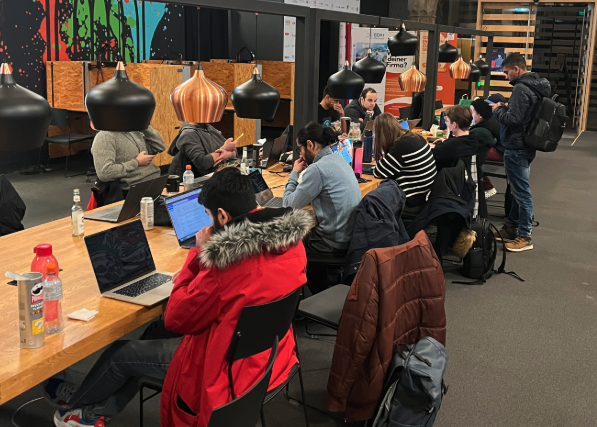
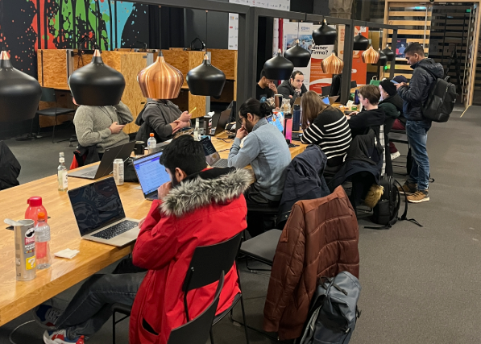
add links to timeline and resize img

Changed region(s): [[0.1871, 0.0, 0.2807, 0.1453], [0.5613, 0.3488, 0.5925, 0.3779]]

diff --git a/src/components/Timeline.tsx b/src/components/Timeline.tsx
@@ -9,6 +9,7 @@ interface TimelineProps {
     title: string;
     description: string;
     image: string;
+    url?: string;
   }[];
 }
 
@@ -61,28 +62,64 @@ export default function Timeline({ milestones }: TimelineProps) {
               <div className={`w-full sm:w-5/12 ml-7 mr-6 sm:ml-0 sm:mr-0 ${
                 index % 2 === 0 ? 'sm:mr-auto sm:pr-8' : 'sm:ml-auto sm:pl-8'
               }`}>
-                <div className="group bg-white/5 backdrop-blur-lg rounded-2xl overflow-hidden border border-white/10 hover:border-purple-500/30 transition-all duration-300 hover:scale-[1.025] hover:shadow-2xl hover:shadow-purple-500/20 mt-8 sm:mt-0">
-                  {/* Image */}
-                  <div className="relative h-48 sm:h-56 overflow-hidden">
-                    <Image
-                      src={milestone.image}
-                      alt={milestone.title}
-                      fill
-                      className="object-cover transition-transform duration-500 group-hover:scale-110"
-                    />
-                    <div className="absolute inset-0 bg-gradient-to-t from-black/60 via-transparent to-transparent" />
-                  </div>
+                {milestone.url ? (
+                  <a
+                    href={milestone.url}
+                    target="_blank"
+                    rel="noopener noreferrer"
+                    className="block group bg-white/5 backdrop-blur-lg rounded-2xl overflow-hidden border border-white/10 hover:border-purple-500/30 transition-all duration-300 hover:scale-[1.025] hover:shadow-2xl hover:shadow-purple-500/20 mt-8 sm:mt-0 cursor-pointer"
+                  >
+                    {/* Image */}
+                    <div className="relative h-48 sm:h-56 overflow-hidden">
+                      <Image
+                        src={milestone.image}
+                        alt={milestone.title}
+                        fill
+                        className="object-cover transition-transform duration-500 group-hover:scale-110"
+                      />
+                      <div className="absolute inset-0 bg-gradient-to-t from-black/60 via-transparent to-transparent" />
+                      {/* Link indicator */}
+                      <div className="absolute top-4 right-4 w-8 h-8 bg-purple-500/80 backdrop-blur-sm rounded-full flex items-center justify-center opacity-0 group-hover:opacity-100 transition-opacity duration-300">
+                        <svg className="w-4 h-4 text-white" fill="none" stroke="currentColor" viewBox="0 0 24 24">
+                          <path strokeLinecap="round" strokeLinejoin="round" strokeWidth={2} d="M10 6H6a2 2 0 00-2 2v10a2 2 0 002 2h10a2 2 0 002-2v-4M14 4h6m0 0v6m0-6L10 14" />
+                        </svg>
+                      </div>
+                    </div>
 
-                  {/* Content */}
-                  <div className="p-6">
-                    <h3 className="text-xl sm:text-2xl font-bold text-white mb-3 group-hover:text-purple-300 transition-colors">
-                      {milestone.title}
-                    </h3>
-                    <p className="text-gray-300 text-sm sm:text-base leading-relaxed">
-                      {milestone.description}
-                    </p>
+                    {/* Content */}
+                    <div className="p-6">
+                      <h3 className="text-xl sm:text-2xl font-bold text-white mb-3 group-hover:text-purple-300 transition-colors">
+                        {milestone.title}
+                      </h3>
+                      <p className="text-gray-300 text-sm sm:text-base leading-relaxed">
+                        {milestone.description}
+                      </p>
+                    </div>
+                  </a>
+                ) : (
+                  <div className="group bg-white/5 backdrop-blur-lg rounded-2xl overflow-hidden border border-white/10 hover:border-purple-500/30 transition-all duration-300 hover:scale-[1.025] hover:shadow-2xl hover:shadow-purple-500/20 mt-8 sm:mt-0">
+                    {/* Image */}
+                    <div className="relative h-48 sm:h-56 overflow-hidden">
+                      <Image
+                        src={milestone.image}
+                        alt={milestone.title}
+                        fill
+                        className="object-cover transition-transform duration-500 group-hover:scale-110"
+                      />
+                      <div className="absolute inset-0 bg-gradient-to-t from-black/60 via-transparent to-transparent" />
+                    </div>
+
+                    {/* Content */}
+                    <div className="p-6">
+                      <h3 className="text-xl sm:text-2xl font-bold text-white mb-3 group-hover:text-purple-300 transition-colors">
+                        {milestone.title}
+                      </h3>
+                      <p className="text-gray-300 text-sm sm:text-base leading-relaxed">
+                        {milestone.description}
+                      </p>
+                    </div>
                   </div>
-                </div>
+                )}
               </div>
 
               {/* Connecting Line for Mobile */}

diff --git a/src/data/milestones.ts b/src/data/milestones.ts
@@ -3,6 +3,7 @@ interface Milestone {
   title: string;
   description: string;
   image: string;
+  url?: string;
 }
 
 export const milestones: Milestone[] = [
@@ -10,7 +11,8 @@ export const milestones: Milestone[] = [
     date: "May 2015",
     title: "Bitcoin Meetups",
     description: "The first student-led blockchain initiative in Germany was established in Aachen under the name Bitcoin-Aachen, hosting monthly meetups.",
-    image: "/images/milestones/01_bitcoinaachen.png"
+    image: "/images/milestones/01_bitcoinaachen.png",
+    url: "https://web.archive.org/web/20150519043300/http://bitcoin-aachen.de/"
   },
   {
     date: "November 2021",
@@ -28,37 +30,42 @@ export const milestones: Milestone[] = [
     date: "May 2023",
     title: "Educational Workshops",
     description: "The first “Blockchain with Pen & Paper” workshop kicked off our series, teaching students the basics of blockchain. Many more workshops followed.",
-    image: "/images/milestones/04_workshops.png"
+    image: "/images/milestones/04_workshops.png",
+    url: "https://aachen-blockchain.de/events/"
   },
   {
     date: "September 2023",
     title: "TUM Blockchain Conference",
     description: "An ABC delegation attended the first TUM Blockchain Conference, supporting fellow student groups and contributing where possible.",
-    image: "/images/milestones/05_tumconference.png"
+    image: "/images/milestones/05_tumconference.png",
+    url: "https://conference.tum-blockchain.com/"
   },
   {
-  date: "March 2024",
-  title: "Superteam Germany Partnership",
-  description: "We formed our first partnership to accelerate blockchain adoption with no other than Superteam Germany. The close collaboration continues today, with many ABC members becoming part of Superteam Germany.",
-  image: "/images/milestones/06_superteam.png"
+    date: "March 2024",
+    title: "Superteam Germany Partnership",
+    description: "We formed our first partnership to accelerate blockchain adoption with no other than Superteam Germany. The close collaboration continues today, with many ABC members becoming part of Superteam Germany.",
+    image: "/images/milestones/06_superteam.png",
+    url: "https://de.superteam.fun/"
   },
   {
     date: "July 2024",
     title: "ETH CC Brussels Trip",
     description: "Twelve ABC members traveled to ETH CC, where we met Ethereum founder Vitalik Buterin in a private AMA together with MegaETH.",
-    image: "/images/milestones/07_ethcc.png"
+    image: "/images/milestones/07_ethcc.png",
+    url: "https://ethcc.io/"
   },
   {
     date: "February 2025",
     title: "Celestia Hackathon Build Station",
     description: "We hosted the only month-long build station in Germany for the global Celestia Mammothon hackathon with a price pool of $250k, bringing builders together in Aachen.",
-    image: "/images/milestones/08_celestia.png"
+    image: "/images/milestones/08_celestia.png",
+    url: "https://x.com/RWTHBlockchain/status/1869105277905318274"
   },
   {
     date: "August 2025",
     title: "10 Year Ethereum Party",
     description: "We hosted a celebration in Aachen for Ethereum’s 10th birthday in partnership with the Ethereum Foundation.",
-    image: "/images/milestones/09_ethereum.png"
+    image: "/images/milestones/09_ethereum.png",
+    url: "https://x.com/RWTHBlockchain/status/1951263458755777016"
   }
-
 ];
